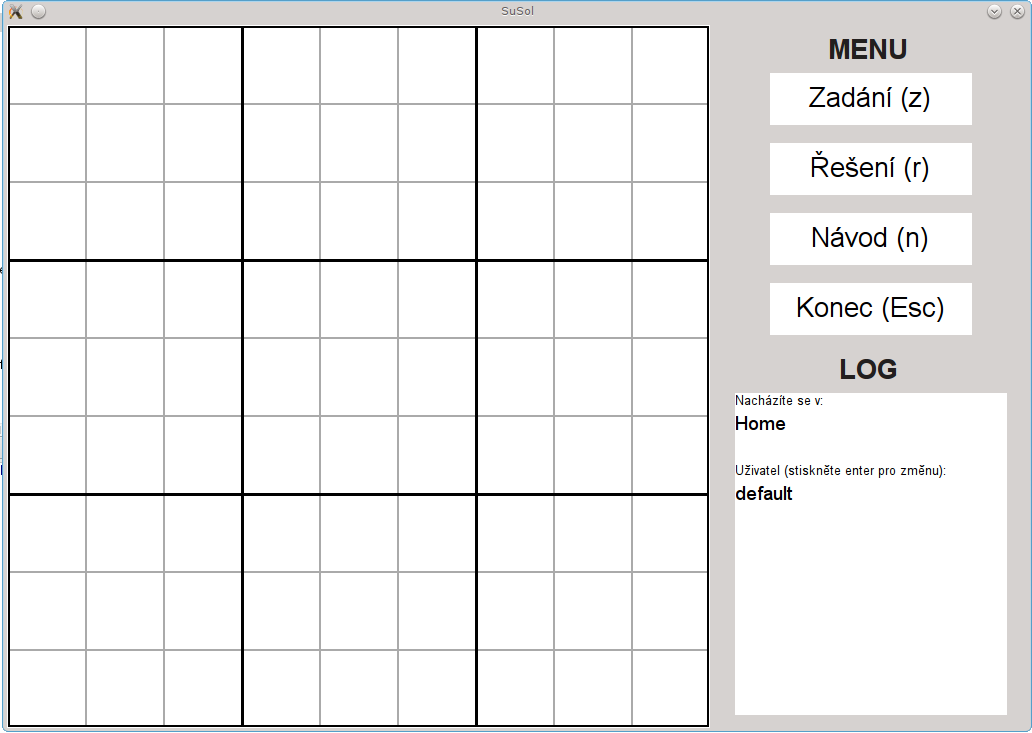
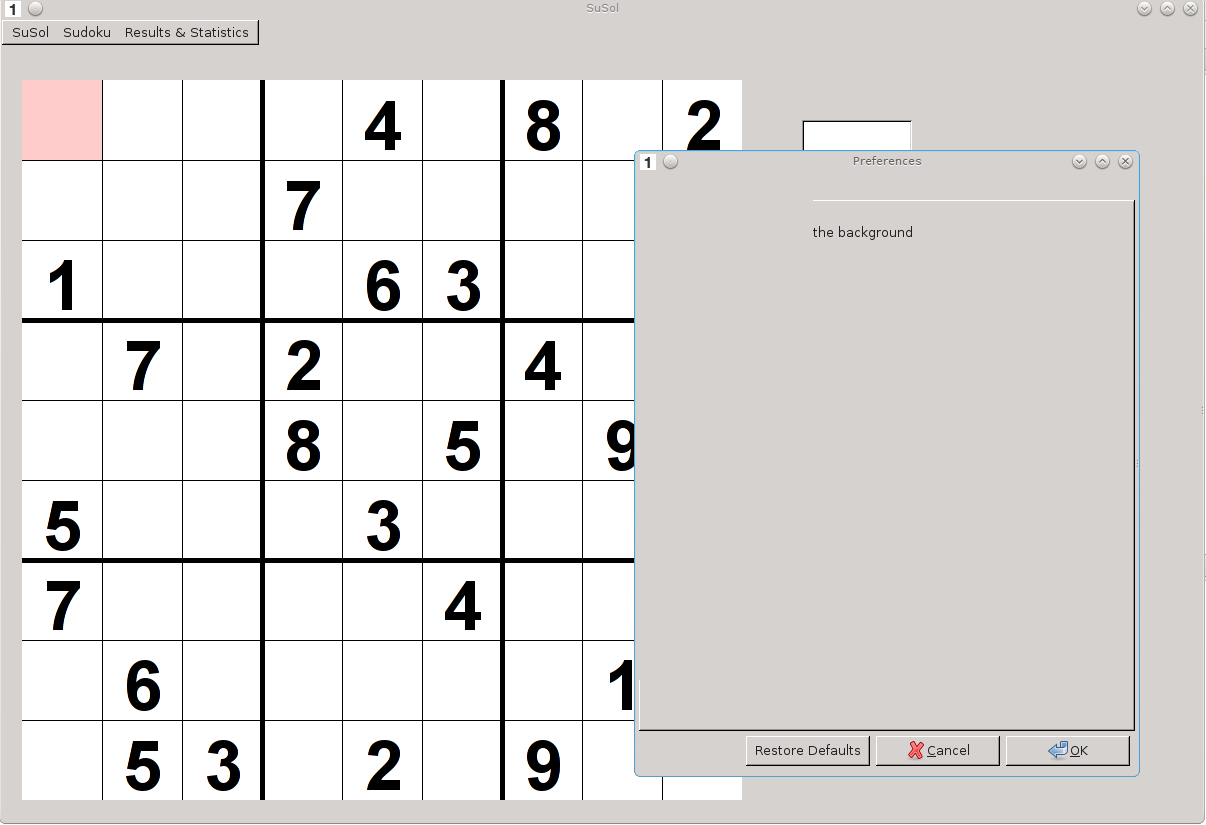
screenshot

diff --git a/asdf.py b/asdf.py
@@ -1,17 +1,17 @@
 import solver
 zadani = [
-[0,0,0,0,0,9,2,0,3],
-[0,0,0,0,0,2,7,0,9],
-[0,0,0,6,0,0,0,0,0],
-[0,0,6,1,0,0,0,7,0],
-[0,3,0,8,0,0,0,0,0],
-[0,5,1,0,7,0,0,2,0],
-[0,1,7,0,0,0,5,0,0],
-[0,0,0,3,8,0,0,0,1],
-[0,0,0,0,0,0,0,0,0]
+[0,0,0,0,4,0,8,0,2],
+[0,0,0,7,0,0,0,0,0],
+[1,0,0,0,6,3,0,0,0],
+[0,7,0,2,0,0,4,0,0],
+[0,0,0,8,0,5,0,9,0],
+[5,0,0,0,3,0,0,0,0],
+[7,0,0,0,0,4,0,0,3],
+[0,6,0,0,0,0,0,1,4],
+[0,5,3,0,2,0,9,0,0]
 ]
 
-reseni = solver.solve(zadani,mode=0,bf=True)
+reseni = solver.solve(zadani,mode=1,bf=True)
 for i in reseni:
     print ""
     print ""
